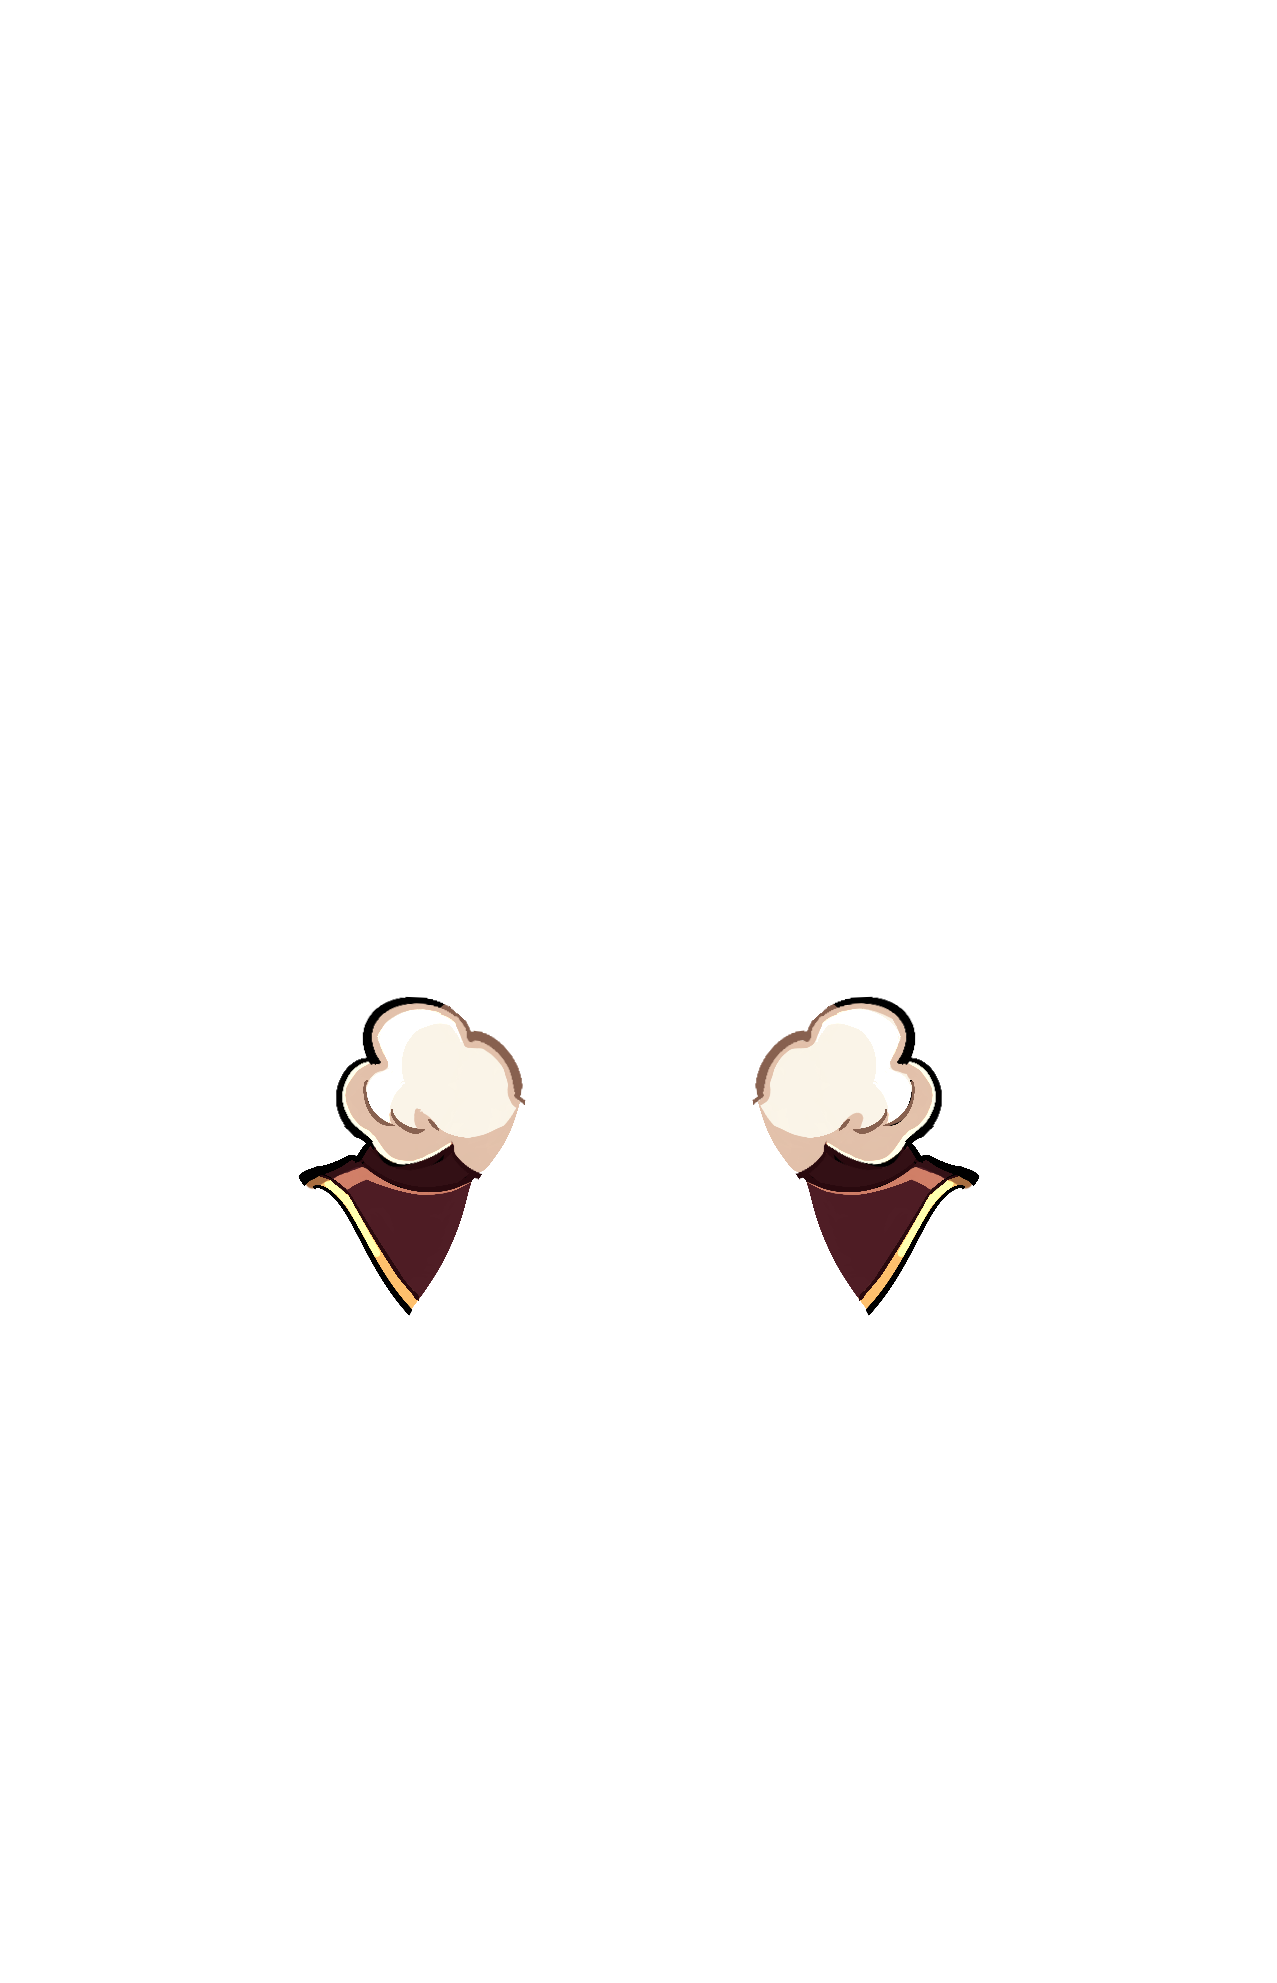
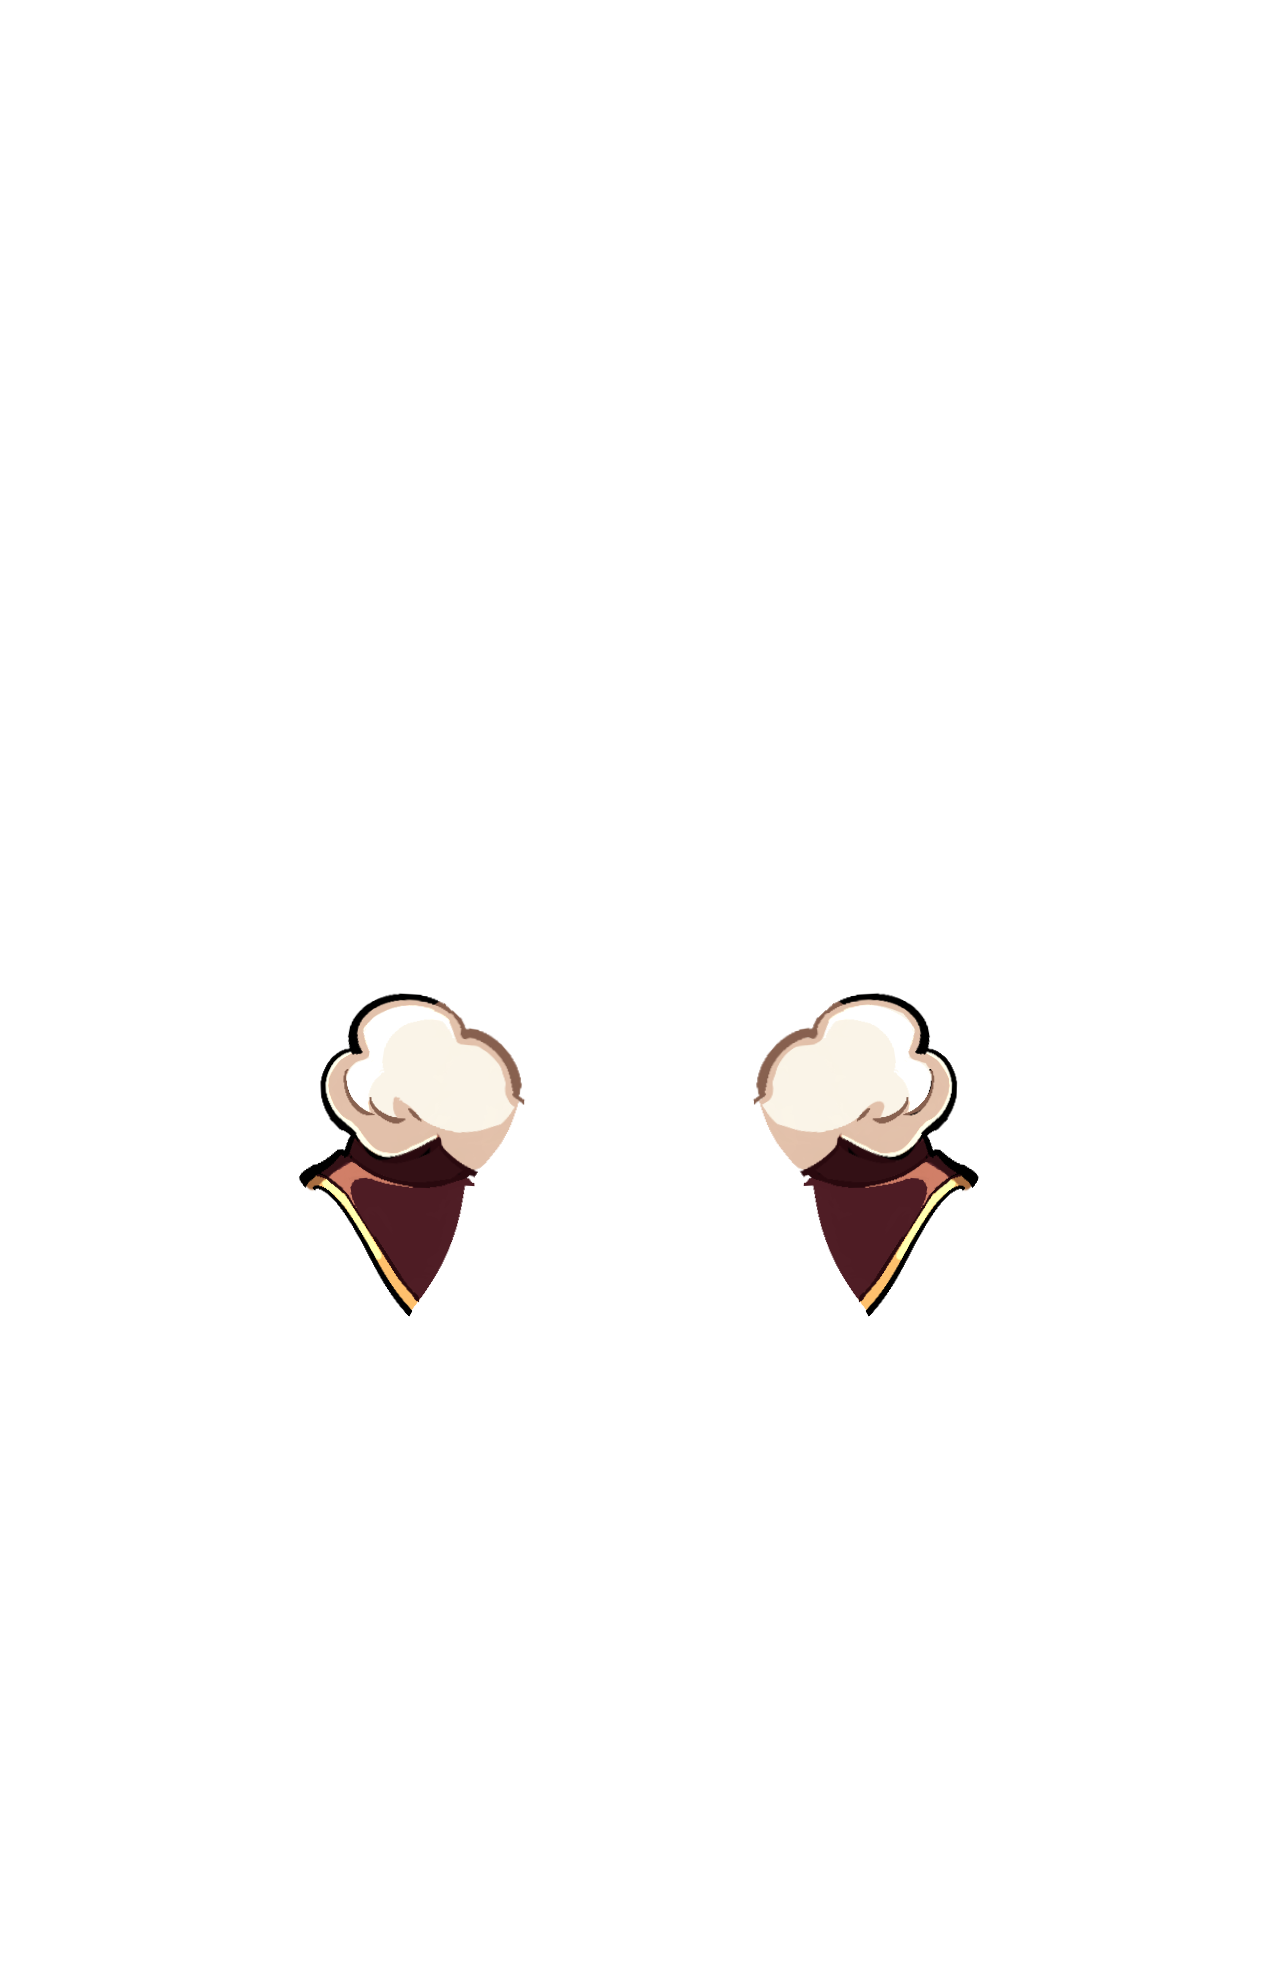
Add alternate festive outfit

Changed region(s): [[0.5803, 0.4922, 0.7635, 0.6152], [0.2443, 0.4922, 0.397, 0.646]]

diff --git a/scripts/clothesDB.js b/scripts/clothesDB.js
@@ -30,6 +30,16 @@ const clothes = {
       related: [],
       dependent: [],
     },
+    {
+      id: "braided-hair",
+      name: "Braided Hair",
+      category: "HAIR",
+      imgHtml: `<img src="assets/hair/braid-cut.png" class="layer15 doll-layer" id="braided-hair"/>`,
+      iconHtml: `<img src="assets/hair/icons/braid-icon.png" class="item-btn" onclick="toggleItem(this);" data-item="braided-hair" data-category="hair">`,
+      layer: 15,
+      related: [],
+      dependent: [],
+    },
   ],
   under: [
     {
@@ -132,6 +142,22 @@ const clothes = {
         },
       ],
     },
+    {
+      id: "festive-robe",
+      name: "Festive Robe",
+      category: "INNER",
+      imgHtml: `<img src="assets/inner/festive-robe-a.png" class="layer5 doll-layer" id="festive-robe"/>`,
+      iconHtml: `<img src="assets/inner/icons/festive-robe-icon.png" class="item-btn" onclick="toggleItem(this);" data-item="festive-robe" data-category="inner">`,
+      layer: 5,
+      related: [],
+      dependent: [],
+      linkedItems: [
+        {
+          id: "festive-robe-b",
+          imgHtml: `<img src="assets/inner/festive-robe-b.png" class="layer-1 doll-layer" id="festive-robe-b"/>`,
+        },
+      ],
+    },
   ],
   outer: [
     {
@@ -193,11 +219,11 @@ const clothes = {
       dependent: [],
     },
     {
-      id: "black-shorts",
-      name: "Black Shorts",
+      id: "martial-pants",
+      name: "Martial Pants",
       category: "PANTS",
-      imgHtml: `<img src="assets/pants/black-shorts.png" class="layer2 doll-layer" id="black-shorts"/>`,
-      iconHtml: `<img src="assets/pants/icons/black-shorts-icon.png" class="item-btn" onclick="toggleItem(this);" data-item="black-shorts" data-category="pants">`,
+      imgHtml: `<img src="assets/pants/martial-pants.png" class="layer2 doll-layer" id="martial-pants"/>`,
+      iconHtml: `<img src="assets/pants/icons/martial-pants-icon.png" class="item-btn" onclick="toggleItem(this);" data-item="martial-pants" data-category="pants">`,
       layer: 2,
       related: [],
       dependent: [],
@@ -209,6 +235,16 @@ const clothes = {
       imgHtml: `<img src="assets/pants/dress-pants.png" class="layer3 doll-layer" id="dress-pants"/>`,
       iconHtml: `<img src="assets/pants/icons/dress-pants-icon.png" class="item-btn" onclick="toggleItem(this);" data-item="dress-pants" data-category="pants">`,
       layer: 3,
+      related: [],
+      dependent: [],
+    },
+    {
+      id: "black-shorts",
+      name: "Black Shorts",
+      category: "PANTS",
+      imgHtml: `<img src="assets/pants/black-shorts.png" class="layer2 doll-layer" id="black-shorts"/>`,
+      iconHtml: `<img src="assets/pants/icons/black-shorts-icon.png" class="item-btn" onclick="toggleItem(this);" data-item="black-shorts" data-category="pants">`,
+      layer: 2,
       related: [],
       dependent: [],
     },
@@ -235,22 +271,12 @@ const clothes = {
       dependent: [],
     },
     {
-      id: "dress-shoes",
-      name: "Dress Shoes",
+      id: "martial-shoes",
+      name: "Martial Shoes",
       category: "SHOES",
-      imgHtml: `<img src="assets/shoes/dress-shoes.png" class="layer2 doll-layer" id="dress-shoes"/>`,
-      iconHtml: `<img src="assets/shoes/icons/dress-shoes-icon.png" class="item-btn" onclick="toggleItem(this);" data-item="dress-shoes" data-category="shoes">`,
-      layer: 2,
-      related: [],
-      dependent: [],
-    },
-    {
-      id: "leg-ribbon",
-      name: "Leg Ribbon",
-      category: "SHOES",
-      imgHtml: `<img src="assets/shoes/leg_ribbon.png" class="layer2 doll-layer" id="leg-ribbon"/>`,
-      iconHtml: `<img src="assets/shoes/icons/leg-ribbon-icon.png" class="item-btn" onclick="toggleItem(this);" data-item="leg-ribbon" data-category="shoes">`,
-      layer: 2,
+      imgHtml: `<img src="assets/shoes/martial-shoes.png" class="layer3 doll-layer" id="martial-shoes"/>`,
+      iconHtml: `<img src="assets/shoes/icons/martial-shoes-icon.png" class="item-btn" onclick="toggleItem(this);" data-item="martial-shoes" data-category="shoes">`,
+      layer: 3,
       related: [],
       dependent: [],
     },
@@ -265,6 +291,26 @@ const clothes = {
       dependent: [],
     },
     {
+      id: "leg-ribbon",
+      name: "Leg Ribbon",
+      category: "SHOES",
+      imgHtml: `<img src="assets/shoes/leg_ribbon.png" class="layer1 doll-layer" id="leg-ribbon"/>`,
+      iconHtml: `<img src="assets/shoes/icons/leg-ribbon-icon.png" class="item-btn" onclick="toggleItem(this);" data-item="leg-ribbon" data-category="shoes">`,
+      layer: 2,
+      related: [],
+      dependent: [],
+    },
+    {
+      id: "dress-shoes",
+      name: "Dress Shoes",
+      category: "SHOES",
+      imgHtml: `<img src="assets/shoes/dress-shoes.png" class="layer2 doll-layer" id="dress-shoes"/>`,
+      iconHtml: `<img src="assets/shoes/icons/dress-shoes-icon.png" class="item-btn" onclick="toggleItem(this);" data-item="dress-shoes" data-category="shoes">`,
+      layer: 2,
+      related: [],
+      dependent: [],
+    },
+    {
       id: "red-heels",
       name: "Red Heels",
       category: "SHOES",
@@ -274,6 +320,7 @@ const clothes = {
       related: [],
       dependent: [],
     },
+
   ],
   accessories: {
     belts: [
@@ -657,7 +704,7 @@ const outfits = {
     <img src="assets/belt/dancer-belt.png" class="layer10 doll-layer" id="dancer-belt">
     <img src="assets/neck/collar.png" class="layer4 doll-layer" id="brown-collar">
     <img src="assets/neck/neck-tassel.png" class="layer10 doll-layer" id="neck-tassel">
-    <img src="assets/shoes/leg_ribbon.png" class="layer2 doll-layer" id="leg-ribbon">
+    <img src="assets/shoes/leg_ribbon.png" class="layer1 doll-layer" id="leg-ribbon">
     <img src="assets/head/flower-clip.png" class="layer9 doll-layer" id="flower-clip">`,
     outfitObj: {
       hair: "long-hair",
@@ -723,6 +770,29 @@ const outfits = {
       pants: "black-stockings",
       shoes: "red-heels",
       accessories: ["evening-cape", "flower-clip", "neck-tassel"],
+    },
+  },
+  festiveOutfit: {
+    outfitHTML: `<img src="assets/base.png" class="layer0 doll-layer" id="base-doll">
+    <img src="assets/tail/tails1.png" class="layer-5 doll-layer" id="doll-tails">
+    <img src="assets/stand.png" width="450" class="doll-stand" id="doll-stand">
+    <img src="assets/under/white-under.png" class="layer1 doll-layer" id="white-under">
+    <img src="assets/neck/neck-tassel.png" class="layer10 doll-layer" id="neck-tassel">
+    <img src="assets/inner/festive-robe-a.png" class="layer5 doll-layer" id="festive-robe">
+    <img src="assets/inner/festive-robe-b.png" class="layer-1 doll-layer" id="festive-robe-b">
+    <img src="assets/cape/evening-cape-a.png" class="layer12 doll-layer" id="evening-cape">
+    <img src="assets/cape/evening-cape-b.png" class="layer-4 doll-layer" id="evening-cape-b">
+    <img src="assets/pants/martial-pants.png" class="layer2 doll-layer" id="martial-pants">
+    <img src="assets/shoes/martial-shoes.png" class="layer3 doll-layer" id="martial-shoes">
+    <img src="assets/hair/braid-cut.png" class="layer15 doll-layer" id="braided-hair">`,
+    outfitObj: {
+      hair: "braided-hair",
+      under: "white-under",
+      outer: "",
+      inner: "festive-robe",
+      pants: "martial-pants",
+      shoes: "martial-shoes",
+      accessories: ["evening-cape", "neck-tassel"],
     },
   },
 };

diff --git a/index.html b/index.html
@@ -254,6 +254,12 @@
                 onclick="ChangeOutfit(this);"
                 data-item="cheongsamOutfit"
               />
+              <img
+                src="assets/outfits/festive-outfit.png"
+                class="outfit-btn"
+                onclick="ChangeOutfit(this);"
+                data-item="festiveOutfit"
+              />
             </div>
             <div class="tab-pane fade" id="hair-tab" role="tabpanel">
               <div class="tab-header">Hair Styles</div>
